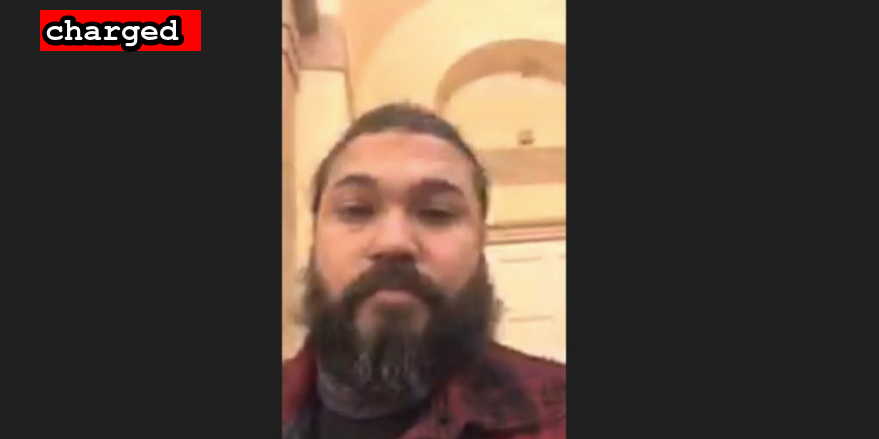
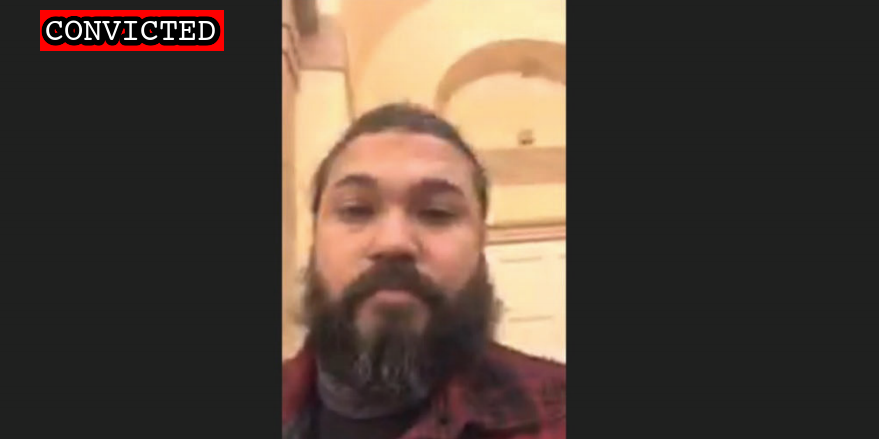
Latest convictions and sentences

Changed region(s): [[0.0307, 0.0, 0.2765, 0.1185]]

diff --git a/docs/_suspects/jesus-rivera.md b/docs/_suspects/jesus-rivera.md
@@ -4,16 +4,16 @@ lastName: Rivera
 hashtag: JDRivera
 aka: JD Rivera, Jesus Delmora Rivera
 residence: Florida
-status: Charged
+status: Convicted
 date: 2021-01-20
 charged: 2021-01-20
 indicted:
-convicted:
+convicted: 2022-06-17
 acquitted:
 sentenced:
 dismissed:
 deceased:
-plea_hearing:
+plea_hearing: 2022-06-17
 trial_date:
 sentencing:
 age: 37
@@ -36,8 +36,25 @@ published: true
 caseNumber: 1:21-cr-60
 videos:
 charges:
+  - code: 18 USC § 1752(a)(1)
+    title: Entering a restricted building or grounds
+    url: https://www.law.cornell.edu/uscode/text/18/1752
+    felony: false
+  - code: 18 USC § 1752(a)(2)
+    title: Disorderly and disruptive conduct in a restricted building or grounds
+    url: https://www.law.cornell.edu/uscode/text/18/1752
+    felony: false
+  - code: 40 USC § 5104(e)(2)(D)
+    title: Disorderly Conduct in a Capitol Building
+    url: https://www.law.cornell.edu/uscode/text/40/5104
+    felony: false
+  - code: 40 USC § 5104(e)(2)(G)
+    title: Parading, demonstrating or picketing in a Capitol building
+    url: https://www.law.cornell.edu/uscode/text/40/5104
+    felony: false
 sentence:
 ---
+
 - [News Report](https://www.pnj.com/story/news/2021/01/20/jesus-rivera-pensacola-man-arrested-capitol-siege-grew-agitated-over-summer/4235901001/)
 - [Statement of Facts](https://www.justice.gov/opa/page/file/1357281/download)
 - [Complaint](https://www.justice.gov/opa/page/file/1357276/download)

diff --git a/docs/_suspects/simone-gold.md b/docs/_suspects/simone-gold.md
@@ -4,18 +4,18 @@ lastName: Gold
 hashtag: SimoneGold
 aka:
 residence: California
-status: Convicted
+status: Sentenced
 date: 2021-01-18
 charged: 2021-01-18
 indicted: 2021-02-05
 convicted: 2022-03-03
 acquitted:
-sentenced:
+sentenced: 2022-06-16
 dismissed:
 deceased:
 plea_hearing: 2022-03-03
 trial_date:
-sentencing: 2022-06-16
+sentencing: 2022-06-17
 age: 55
 occupation: Founder of America’s Frontline Doctors (COVID disinformation)
 affiliations:
@@ -36,12 +36,16 @@ published: true
 caseNumber: 1:21-cr-85
 videos:
 charges:
-- code: 18 USC § 1752(a)(1)
-  title: Entering a restricted building or grounds
-  url: https://www.law.cornell.edu/uscode/text/18/1752
-  felony: false
+  - code: 18 USC § 1752(a)(1)
+    title: Entering a restricted building or grounds
+    url: https://www.law.cornell.edu/uscode/text/18/1752
+    felony: false
 sentence:
+  - 60 days in prison
+  - 12 months probation
+  - $500 restitution
 ---
+
 - [News Report](https://losangeles.cbslocal.com/2021/01/19/beverly-hills-salon-owner-gina-bisignano-2-others-arrested-for-capitol-riots/)
 - [Self Incrimination (Interview)](https://www.washingtonpost.com/investigations/simone-gold-capitol-riot-coronavirus/2021/01/12/d1d39e84-545f-11eb-a817-e5e7f8a406d6_story.html)
 - [FBI Statement (Twitter)](https://twitter.com/FBILosAngeles/status/1351604985210040326?s=20)

diff --git a/docs/_suspects/freedom-vy.md b/docs/_suspects/freedom-vy.md
@@ -16,7 +16,7 @@ plea_hearing:
 sentencing:
 age: 36
 occupation:
-affiliations:
+affiliations: Proud Boys
 jurisdiction: Federal
 image: /images/preview/freedom-vy.png
 suspect: freedom-vy.png
@@ -36,5 +36,6 @@ videos:
 charges:
 sentence:
 ---
+
 - [News Report](https://www.msn.com/en-us/news/us/3-philly-area-proud-boys-charged-in-jan-6-capitol-riot/ar-AARQELh)
 - [Statement of Facts](https://www.justice.gov/usao-dc/case-multi-defendant/file/1480331/download)
